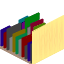
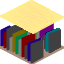
Bold tab names when unsaved

diff --git a/LevelEditor/src/leveleditor/Globals.java b/LevelEditor/src/leveleditor/Globals.java
@@ -8,10 +8,10 @@ import javax.swing.*;
 public class Globals {
 
     public static Graphics memoryGraphics = null;
-    public static int screenWidth = (int) Toolkit.getDefaultToolkit().getScreenSize().getWidth(), screenHeight = (int) Toolkit.getDefaultToolkit().getScreenSize().getHeight(), currentItemType = 6, currentLevel = 0, currentWorld = 0, numberOfWorldsOpen = 0, tabWidth = 0;
+    public static int screenWidth = (int) Toolkit.getDefaultToolkit().getScreenSize().getWidth(), screenHeight = (int) Toolkit.getDefaultToolkit().getScreenSize().getHeight(), currentItemType = 0, currentLevel = 0, currentWorld = 0, numberOfWorldsOpen = 0, tabWidth = 0;
     public static final int itemSize = 64, levelOffset = itemSize / 4, menuWidth = itemSize * 4, tabHeight = 25, iconSize = 40, iconPadding = 5, bottomMenuHeight = iconSize + (iconPadding * 2), numberOfItemsTypes = 9, numberOfIconImages = 4;
     public static Item currentLevelObject = null;
-    public static boolean levelUpKeyIsDown = false, levelDownKeyIsDown = false, saveKeyIsDown = false, painting = true, canDraw = false;
+    public static boolean levelUpKeyIsDown = false, levelDownKeyIsDown = false, saveKeyIsDown = false, painting = true, canDraw = false, drawOpen = false;
     public static ArrayList<World> worlds = new ArrayList();
     public static final Item[] menuItems = new Item[numberOfItemsTypes];
     public static final JPopupMenu mainAreaRightClickMenu = new JPopupMenu(), mainMenuRightClickMenu = new JPopupMenu(), bottomMenuRightClickMenu = new JPopupMenu(), tabsRightClickMenu = new JPopupMenu();
@@ -85,6 +85,7 @@ public class Globals {
     //saves one world to file
     public static void saveOne(int i) {
         saveOne(worlds.get(i));
+        
     }
 
     //saves one world to file

diff --git a/LevelEditor/src/leveleditor/LevelEditor.java b/LevelEditor/src/leveleditor/LevelEditor.java
@@ -3,8 +3,6 @@ package leveleditor;
 import java.awt.*;
 import java.awt.event.*;
 import java.awt.geom.Rectangle2D;
-import java.io.*;
-import java.util.*;
 import javax.swing.*;
 import static leveleditor.Globals.*;
 
@@ -648,6 +646,7 @@ public final class LevelEditor extends JFrame implements MouseMotionListener, Mo
         } else if (key == KeyEvent.VK_S && ke.isControlDown() && saveKeyIsDown == true) {
             saveKeyIsDown = false;
             saveAll();
+            drawGame();
         }
     }
 
@@ -688,6 +687,10 @@ public final class LevelEditor extends JFrame implements MouseMotionListener, Mo
 
     @Override
     public void windowActivated(WindowEvent we) {
+        if (drawOpen) {
+            drawGame();
+            drawOpen = false;
+        }
     }
 
     @Override
@@ -728,8 +731,10 @@ public final class LevelEditor extends JFrame implements MouseMotionListener, Mo
             drawGame();
         } else if (ae.getActionCommand().equals("SaveTab")) {
             saveOne(currentWorld);
+            drawGame();
         } else if (ae.getActionCommand().equals("SaveAllTabs")) {
             saveAll();
+            drawGame();
         } else if (ae.getActionCommand().equals("DeleteWorld")) {
             removeWorld();
         } else {

diff --git a/LevelEditor/src/leveleditor/OpenWindow.java b/LevelEditor/src/leveleditor/OpenWindow.java
@@ -80,6 +80,8 @@ public class OpenWindow extends JFrame {
                 setVisible(false);
                 numberOfWorldsOpen++;
                 currentWorld = i;
+                drawOpen = true;
+                break;
             }
         }
     }
@@ -91,7 +93,7 @@ public class OpenWindow extends JFrame {
                 mainListModel.addElement(world.getName());
             }
         }
-        if(!mainListModel.isEmpty()){
+        if (!mainListModel.isEmpty()) {
             mainList.setSelectedIndex(0);
         }
     }

diff --git a/LevelEditor/src/leveleditor/World.java b/LevelEditor/src/leveleditor/World.java
@@ -24,7 +24,6 @@ public final class World {
     }
 
     public final Level get(int i) {
-        isChanges = true;
         return world.get(i);
     }
 
